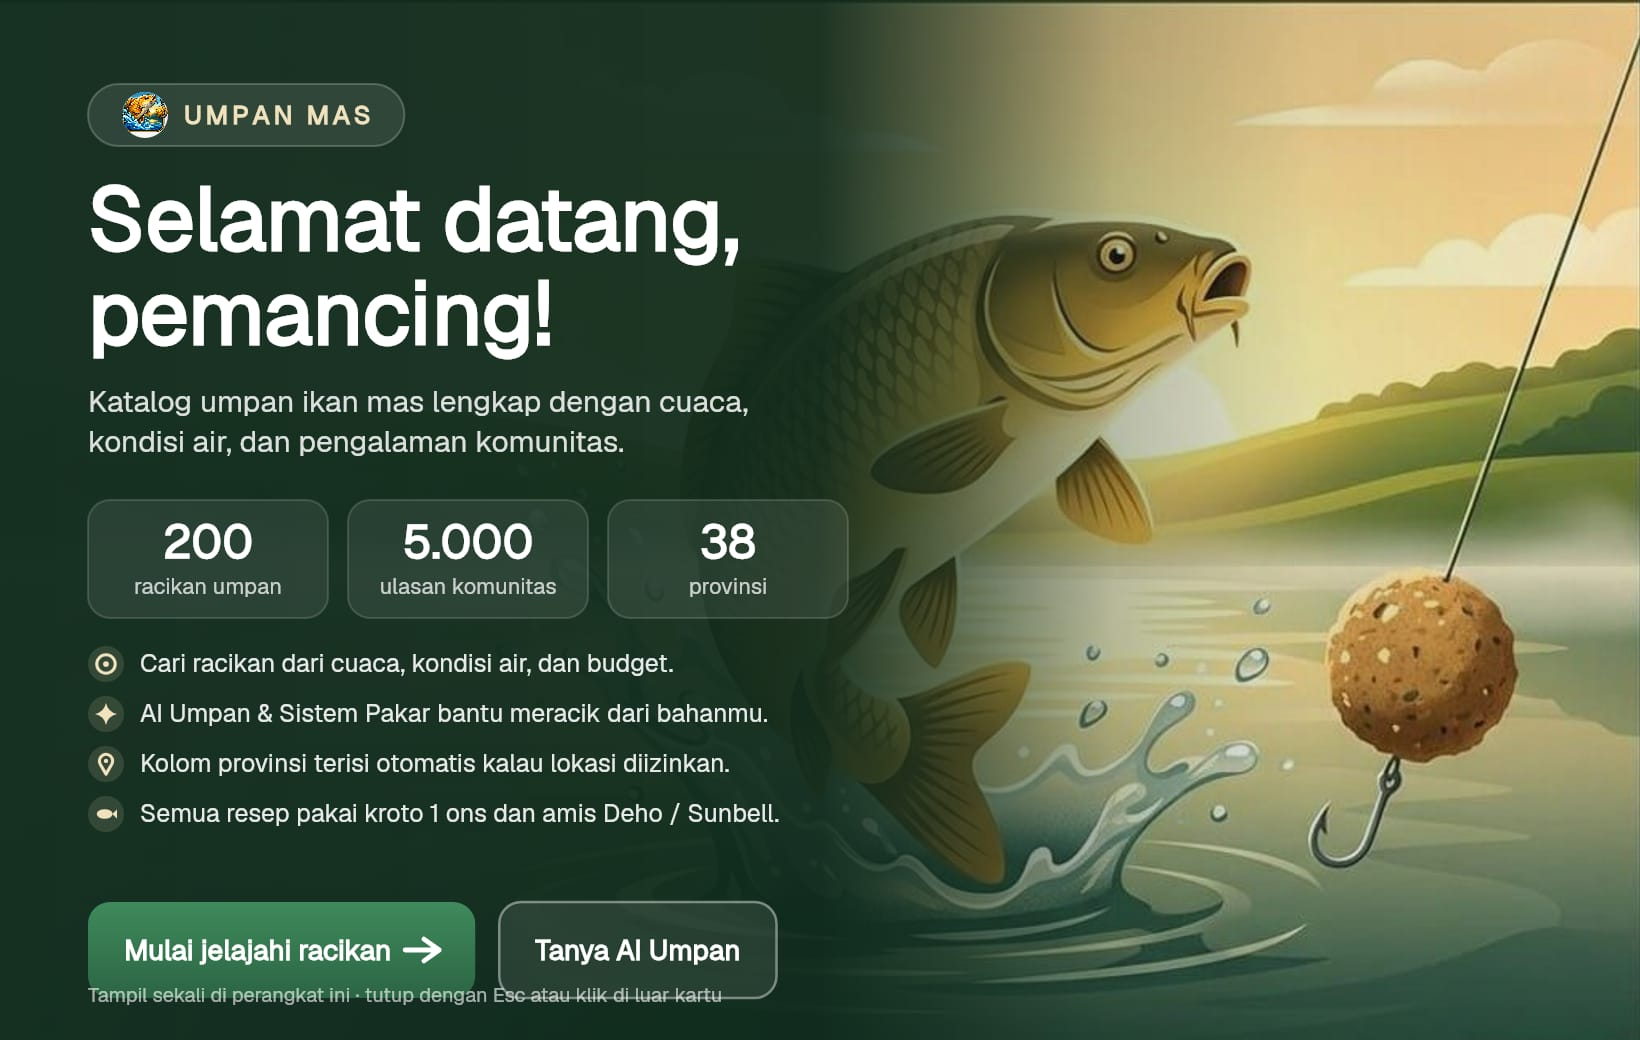
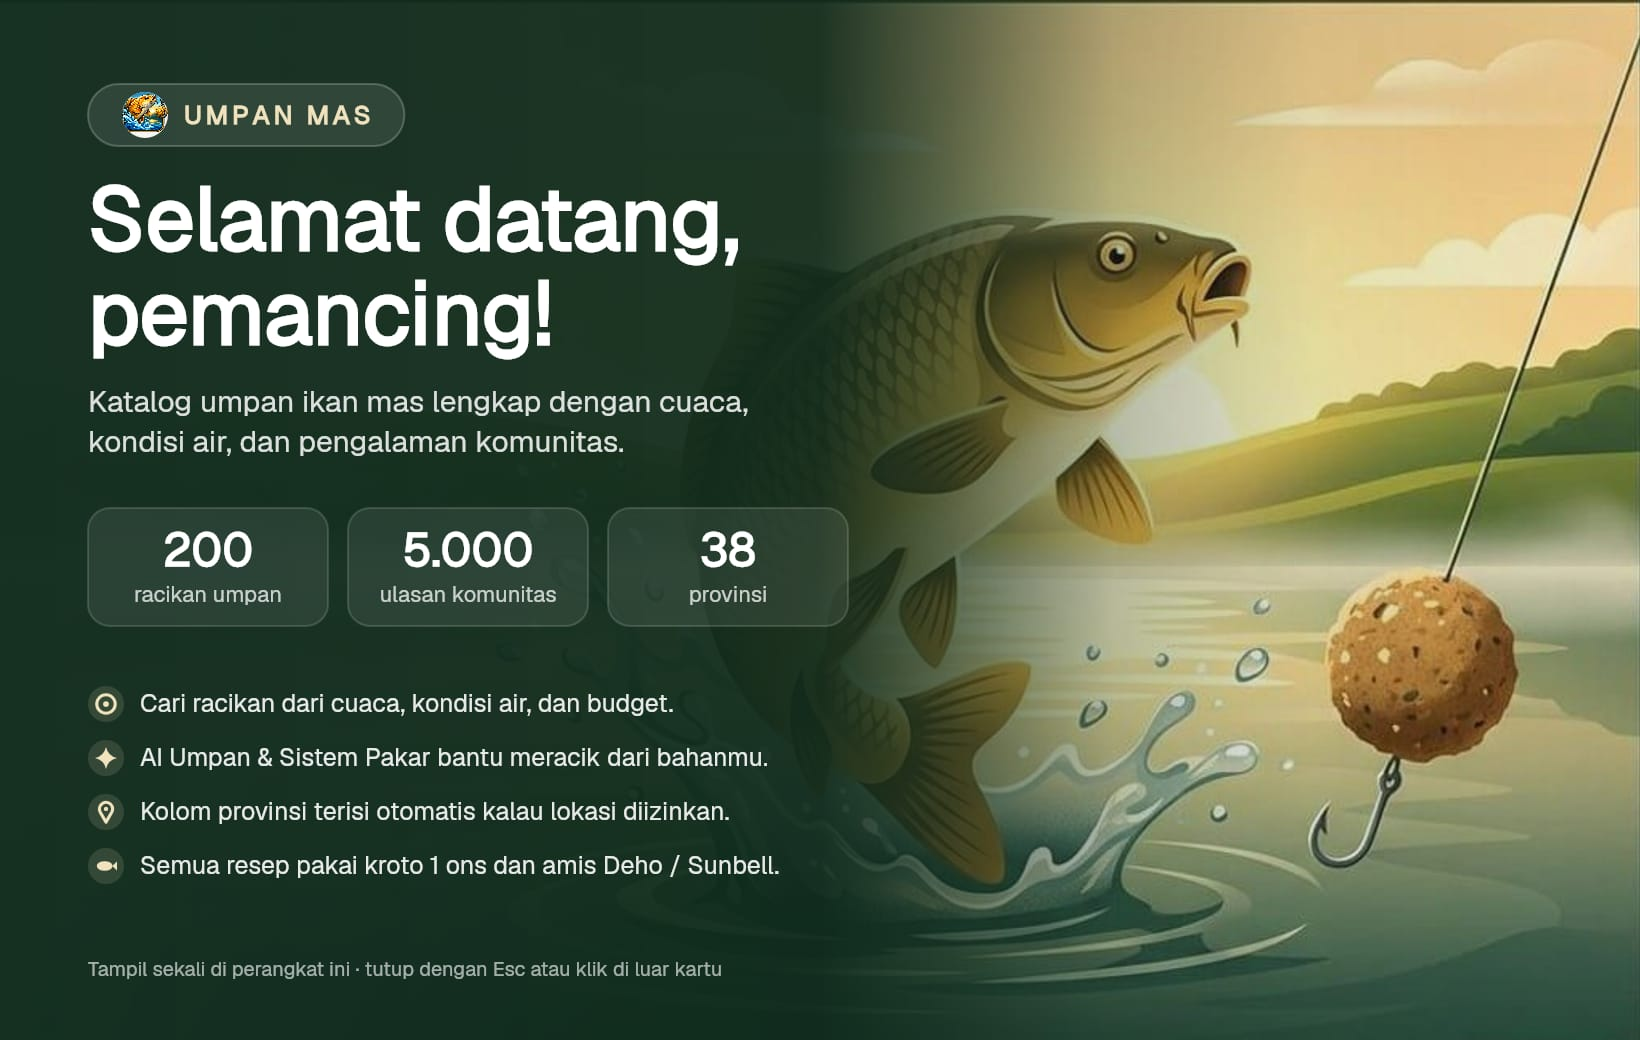
Hapus tombol ajakan di popup sambutan
Tombol "Mulai jelajahi racikan" dan "Tanya AI Umpan" dihilangkan, baik dari
poster maupun sebagai tautan bening di atasnya. Pengunjung menutup popup lalu
menjelajah dari navigasi biasa.

Karena tombolnya hilang, tata letak poster dirapikan ulang agar tidak ada ruang
menggantung:

- sorotan fitur digeser dan jaraknya dilonggarkan
- catatan "tampil sekali" diberi jarak dan margin bawah yang lega
- poster ponsel menyesuaikan tinggi: 860x1216 (sebelumnya 860x1280)
- nilai `CTAS` dan tautan bening di komponen dihapus seluruhnya
- fokus awal dialog sekarang jatuh ke tombol tutup, satu-satunya elemen yang
  bisa difokuskan di dalam popup

diff --git a/src/components/promo-modal.tsx b/src/components/promo-modal.tsx
@@ -2,7 +2,6 @@
 
 import { useCallback, useEffect, useRef, useState } from "react";
 import Image from "next/image";
-import Link from "next/link";
 import { usePathname } from "next/navigation";
 import { X } from "lucide-react";
 import { markPromoSeen, shouldShowPromo } from "@/lib/promo-storage";
@@ -15,26 +14,8 @@ import { useHydrated } from "@/lib/use-location";
  * supaya teks tetap tajam di layar rapat.
  */
 const POSTER = {
-  mobile: { src: "/images/promo-welcome-mobile.jpg", width: 860, height: 1280 },
+  mobile: { src: "/images/promo-welcome-mobile.jpg", width: 860, height: 1216 },
   desktop: { src: "/images/promo-welcome-desktop.jpg", width: 1640, height: 1040 },
-};
-
-/**
- * Tombol di dalam gambar tidak bisa diklik, jadi di atas tiap tombol dipasang
- * tautan bening. Angkanya persen terhadap poster, dihitung oleh skrip pembuat
- * poster (lihat keluaran "Koordinat tombol").
- */
-type Cta = { href: string; label: string; left: number; top: number; width: number; height: number };
-
-const CTAS: Record<keyof typeof POSTER, Cta[]> = {
-  mobile: [
-    { href: "/katalog", label: "Mulai jelajahi racikan — buka Katalog", left: 6.51, top: 87.81, width: 42.21, height: 6.88 },
-    { href: "/ai-umpan", label: "Tanya AI Umpan", left: 51.28, top: 87.81, width: 42.21, height: 6.88 },
-  ],
-  desktop: [
-    { href: "/katalog", label: "Mulai jelajahi racikan — buka Katalog", left: 5.37, top: 86.73, width: 23.61, height: 9.23 },
-    { href: "/ai-umpan", label: "Tanya AI Umpan", left: 30.44, top: 86.73, width: 16.91, height: 9.23 },
-  ],
 };
 
 const DESCRIPTION =
@@ -51,8 +32,7 @@ export function PromoModal() {
   const hydrated = useHydrated();
   const [open, setOpen] = useState(false);
   const dialogRef = useRef<HTMLDivElement>(null);
-  const primaryMobileRef = useRef<HTMLAnchorElement>(null);
-  const primaryDesktopRef = useRef<HTMLAnchorElement>(null);
+  const closeButtonRef = useRef<HTMLButtonElement>(null);
   const previousFocus = useRef<HTMLElement | null>(null);
 
   const close = useCallback(() => {
@@ -100,12 +80,7 @@ export function PromoModal() {
     previousFocus.current = document.activeElement instanceof HTMLElement ? document.activeElement : null;
     const previousOverflow = document.body.style.overflow;
     document.body.style.overflow = "hidden";
-    // Fokuskan tombol ajakan pada poster yang benar-benar tampil di layar ini
-    // (ponsel dan layar lebar punya poster masing-masing).
-    const primary =
-      [primaryDesktopRef.current, primaryMobileRef.current].find((el) => el && el.offsetParent !== null) ??
-      primaryMobileRef.current;
-    primary?.focus();
+    closeButtonRef.current?.focus();
 
     const onKeyDown = (event: KeyboardEvent) => {
       if (event.key === "Escape") {
@@ -155,6 +130,7 @@ export function PromoModal() {
         className="relative mt-auto w-full max-w-[430px] overflow-hidden rounded-t-[28px] bg-[#0f2a1c] shadow-[0_30px_80px_rgba(12,26,18,.45)] sm:mt-0 sm:max-w-[820px] sm:rounded-[30px]"
       >
         <button
+          ref={closeButtonRef}
           type="button"
           onClick={close}
           aria-label="Tutup sambutan"
@@ -174,17 +150,6 @@ export function PromoModal() {
             loading="eager"
             className="h-auto w-full"
           />
-          {CTAS.mobile.map((cta, index) => (
-            <Link
-              key={cta.href}
-              ref={index === 0 ? primaryMobileRef : undefined}
-              href={cta.href}
-              onClick={close}
-              aria-label={cta.label}
-              className="absolute rounded-[18px] focus-visible:outline-2 focus-visible:outline-offset-2 focus-visible:outline-white"
-              style={{ left: `${cta.left}%`, top: `${cta.top}%`, width: `${cta.width}%`, height: `${cta.height}%` }}
-            />
-          ))}
         </div>
 
         {/* Poster layar lebar: lanskap, teks di sisi kiri gambar. */}
@@ -198,17 +163,6 @@ export function PromoModal() {
             loading="eager"
             className="h-auto w-full"
           />
-          {CTAS.desktop.map((cta, index) => (
-            <Link
-              key={cta.href}
-              ref={index === 0 ? primaryDesktopRef : undefined}
-              href={cta.href}
-              onClick={close}
-              aria-label={cta.label}
-              className="absolute rounded-[20px] focus-visible:outline-2 focus-visible:outline-offset-2 focus-visible:outline-white"
-              style={{ left: `${cta.left}%`, top: `${cta.top}%`, width: `${cta.width}%`, height: `${cta.height}%` }}
-            />
-          ))}
         </div>
 
         {/* Pembaca layar tetap mendapat isi poster sebagai teks. */}

diff --git a/README.md b/README.md
@@ -29,16 +29,14 @@ Bahan bertanda `optional` dipisahkan ke bagian **Tambahan opsional** di halaman 
 
 ## Popup sambutan pengunjung baru
 
-Kunjungan pertama menampilkan popup sambutan (`src/components/promo-modal.tsx`) yang **seluruh isinya berupa gambar**: ucapan selamat datang, ringkasan isi website, angka statistik, sorotan fitur, tombol ajakan, dan catatan "tampil sekali" semuanya sudah menyatu di dalam poster.
+Kunjungan pertama menampilkan popup sambutan (`src/components/promo-modal.tsx`) yang **seluruh isinya berupa gambar**: ucapan selamat datang, ringkasan isi website, angka statistik, sorotan fitur, dan catatan "tampil sekali" semuanya sudah menyatu di dalam poster. Tidak ada tombol ajakan di dalam popup — pengunjung menutupnya lalu menjelajah dari navigasi biasa.
 
 **Berkas gambar** (`public/images/`, dirender oleh `scripts/build-promo-poster.mjs` dari `promo-welcome.jpg`)
 
 | Berkas | Ukuran | Dipakai untuk |
 | --- | --- | --- |
-| `promo-welcome-mobile.jpg` | 860x1280 (2x dari 430 px) | layar < 640 px, teks di bawah gambar |
+| `promo-welcome-mobile.jpg` | 860x1216 (2x dari 430 px) | layar < 640 px, teks di bawah gambar |
 | `promo-welcome-desktop.jpg` | 1640x1040 (2x dari 820 px) | layar >= 640 px, teks di sisi kiri gambar |
-
-**Tombol tetap bisa diklik.** Karena tombolnya menyatu di gambar, di atas tiap tombol dipasang tautan bening dengan posisi persen (lihat `CTAS` di komponen) — koordinatnya dicetak oleh skrip pembuat poster. Tautan ini juga bisa dijangkau dengan `Tab` dan diberi label untuk pembaca layar.
 
 **Aksesibilitas.** Pembaca layar tetap mendapat isi poster sebagai teks (judul dan ringkasan tersembunyi yang dipakai `aria-labelledby`/`aria-describedby`). Popup juga bisa ditutup lewat tombol tutup, `Esc`, atau klik/ketuk di luar kartu; scroll halaman dikunci selama terbuka dan fokus keyboard kembali ke elemen sebelumnya.
 
